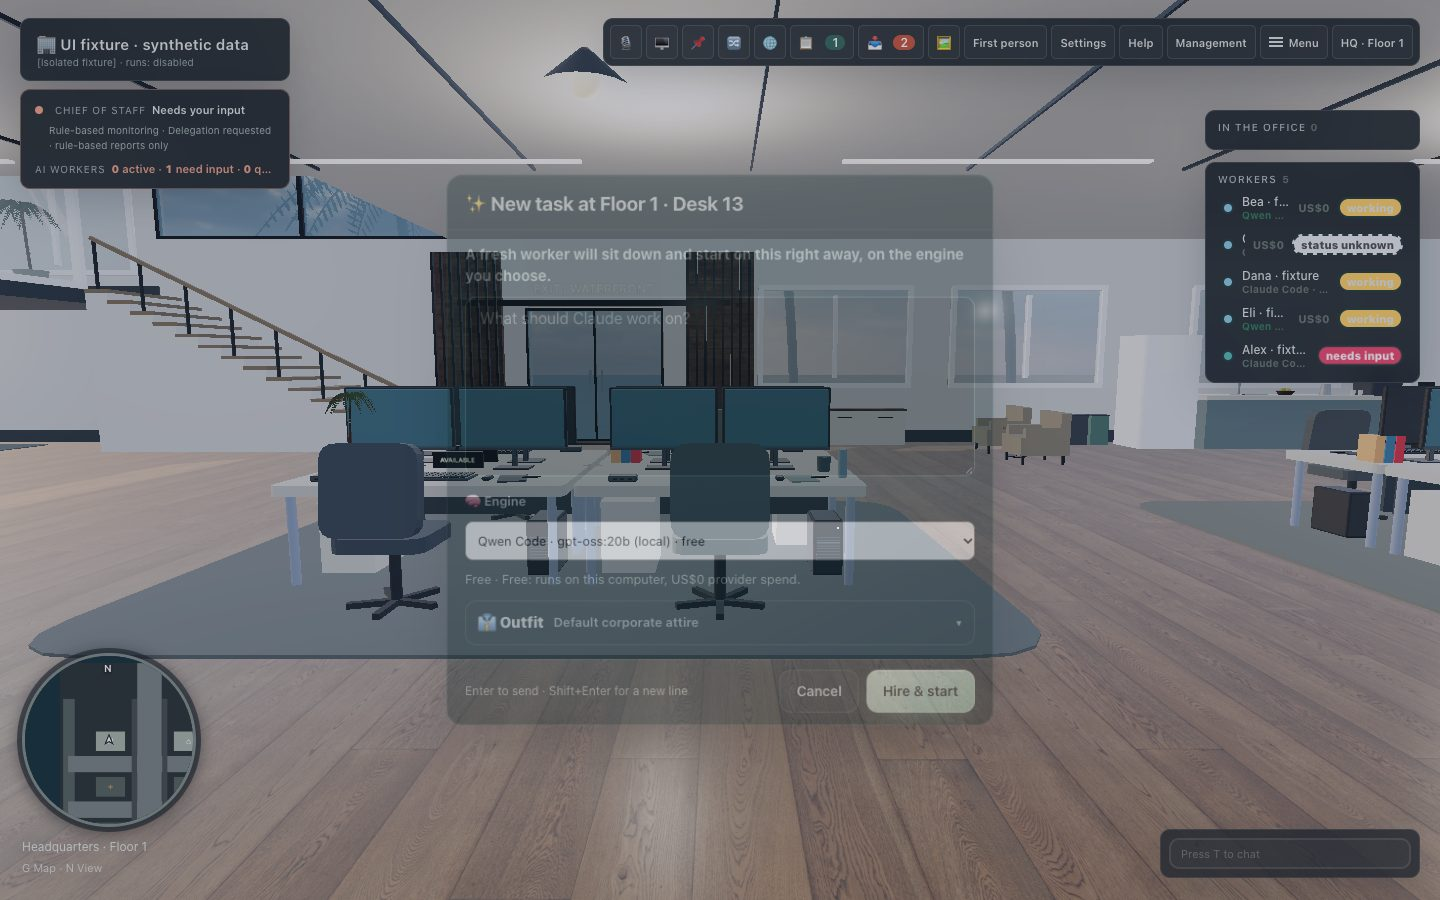
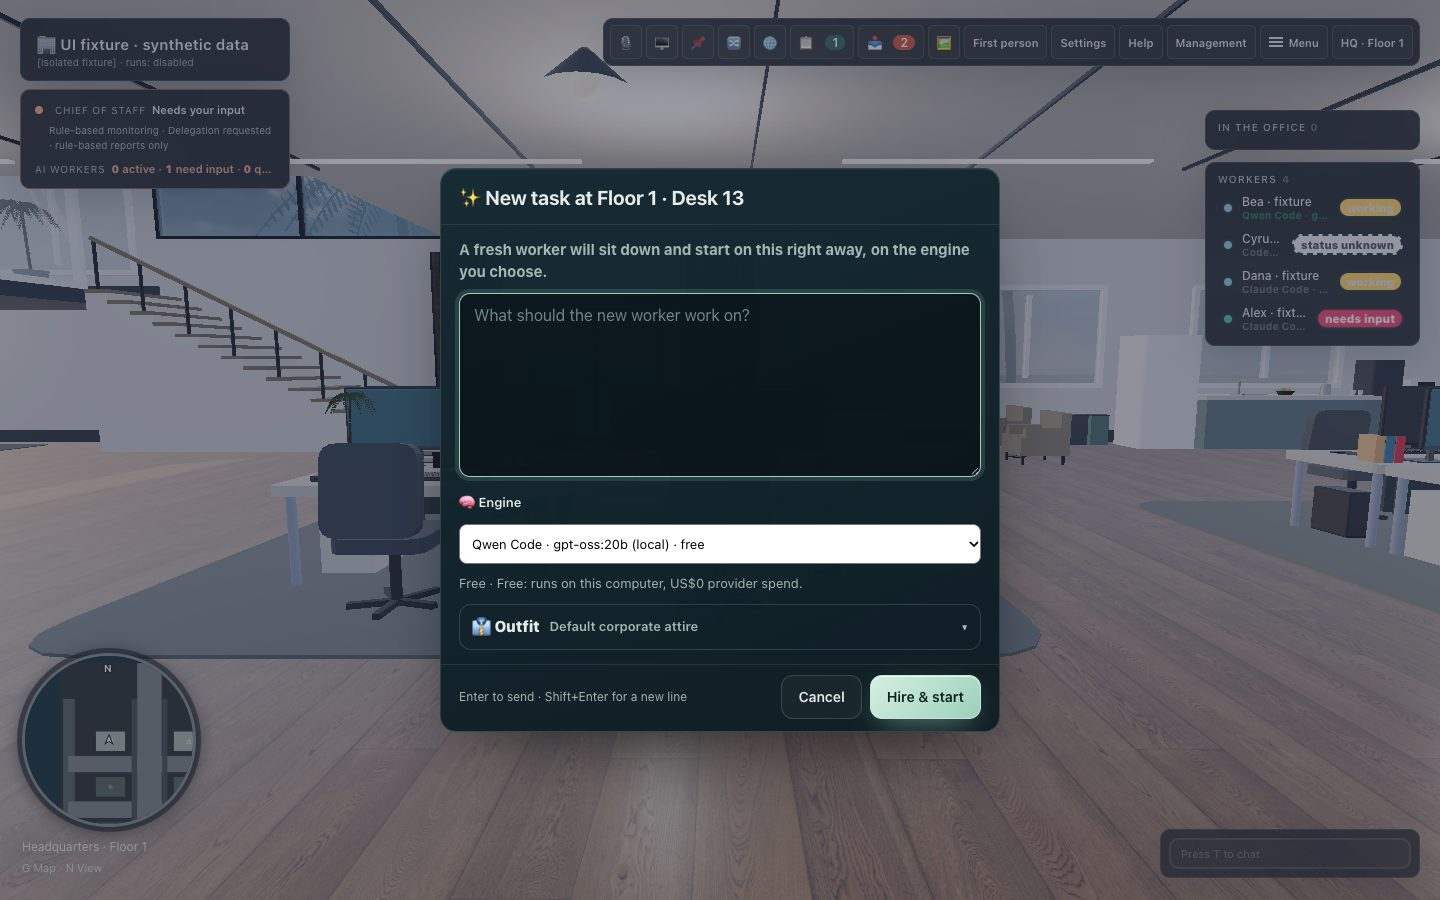
FREE-01: tidy HUD engine line (spend inline), hire placeholder, UI check screenshots

diff --git a/tools/engines-ui-check.ts b/tools/engines-ui-check.ts
@@ -43,7 +43,7 @@ async function open(browser: Browser, o: { width: number; height: number; touch:
 async function openSettings(page: Page) {
   await page.evaluate(() => (document.getElementById('btn-settings') as HTMLButtonElement | null)?.click());
   await page.waitForSelector('.linked-accounts .engine-card', { timeout: 15_000 });
-  await page.locator('.linked-accounts').scrollIntoViewIfNeeded();
+  await page.evaluate(() => document.querySelector('.linked-accounts')?.scrollIntoView({ block: 'start' }));
   await page.waitForTimeout(400);
 }
 
@@ -76,15 +76,18 @@ async function main() {
       const chosen = await p.evaluate(() => { const s = document.querySelector('#engine-choice') as HTMLSelectElement; return { text: s.selectedOptions[0]?.textContent ?? '', note: document.querySelector('.engine-note')?.textContent ?? '', disabled: [...s.options].filter((o) => o.disabled).map((o) => o.textContent) }; });
       check('no healthy premium: the free engine is offered with its label', /^Qwen Code · gpt-oss:20b \(local\) · free$/.test(chosen.text) && /Free · /.test(chosen.note), JSON.stringify(chosen));
       check('unready premium engines are listed but not selectable, with reasons', chosen.disabled.some((t) => /Claude Code · your Claude account — not ready/.test(t ?? '')));
+      await p.waitForTimeout(900); // the dialog's fade-in
       await p.screenshot({ path: resolve(out, '06-hire-dialog-engine-choice-1440x900.jpg'), quality: 82 });
       const before = await p.locator('#workers li[data-worker]').count();
       await p.fill('#modal-root textarea', 'Fixture hire on the free engine');
       await p.locator('#modal-root button[type=submit]').click();
       await p.waitForFunction((n) => document.querySelectorAll('#workers li[data-worker]').length > n, before, { timeout: 10_000 }).catch(() => {});
       const hired = await p.evaluate(() => [...document.querySelectorAll('#workers li[data-worker] .engine')].map((e) => e.textContent));
-      check('the hire carries the chosen engine to the worker card', hired.filter((t) => t === 'Qwen Code · gpt-oss:20b (local)').length >= 2, hired.join(' | '));
+      check('the hire carries the chosen engine to the worker card', hired.filter((t) => t?.startsWith('Qwen Code · gpt-oss:20b (local)')).length >= 2, hired.join(' | '));
     }
     await openSettings(p);
+    await p.waitForTimeout(3500); // let the hire toast clear
+    await p.screenshot({ path: resolve(out, '01-settings-linked-accounts-1440x900.jpg'), quality: 82 });
     const panel = (await p.locator('.linked-accounts').textContent()) ?? '';
     check('panel shows Claude Code login state from CLI output', /Claude Code · premium/.test(panel) && /Not signed in/.test(panel), '');
     check('panel offers "Sign in to Claude" and says the Empire never sees credentials', /Sign in to Claude/.test(panel) && /never signs you in or sees your Claude credentials/.test(panel));
@@ -94,7 +97,7 @@ async function main() {
     await p.locator('.hosted-free summary').click();
     const terms = (await p.locator('.hosted-free').textContent()) ?? '';
     check('free hosted keys are opt-in with data-use terms shown', /opt-in/.test(terms) && /human reviewers may read them/.test(terms) && /has not verified them/.test(terms));
-    await p.screenshot({ path: resolve(out, '01-settings-linked-accounts-1440x900.jpg'), quality: 82 });
+    await p.screenshot({ path: resolve(out, '01b-settings-free-hosted-terms-1440x900.jpg'), quality: 82 });
 
     // Explicit, confirmed download (synthetic progress), then cancel.
     await p.locator('.model-recs button:has-text("Download (19 GB)")').click();
@@ -120,9 +123,9 @@ async function main() {
 
     // Engine labels and status unknown on the worker card (HUD list), name plate and terminal header.
     const rows = await p.evaluate(() => [...document.querySelectorAll('#workers li[data-worker]')].map((li) => ({ id: (li as HTMLElement).dataset.worker, engine: li.querySelector('.engine')?.textContent ?? '', pill: li.querySelector('.pill')?.textContent ?? '', cost: li.querySelector('.cost')?.textContent ?? '' })));
-    const qwen = rows.find((r) => r.engine === 'Qwen Code · gpt-oss:20b (local)');
-    const codex = rows.find((r) => r.engine === 'Codex · gpt-oss:20b (local)');
-    check('worker card shows "Qwen Code · gpt-oss:20b (local)" with US$0 spend', !!qwen && qwen.cost === 'US$0', JSON.stringify(qwen));
+    const qwen = rows.find((r) => r.engine.startsWith('Qwen Code · gpt-oss:20b (local)'));
+    const codex = rows.find((r) => r.engine.startsWith('Codex · gpt-oss:20b (local)'));
+    check('worker card shows "Qwen Code · gpt-oss:20b (local)" with US$0 spend', !!qwen && qwen.engine.endsWith('· US$0'), JSON.stringify(qwen));
     check('an engine that cannot report shows "status unknown"', !!codex && /status unknown/.test(codex.pill), JSON.stringify(codex));
     check('Claude worker card says "your Claude account"', rows.some((r) => r.engine === 'Claude Code · your Claude account'));
     const plates = await p.evaluate(() => [...(window as unknown as { __office: { workerViews: Map<string, { plate: string }> } }).__office.workerViews.values()].map((v) => v.plate));

diff --git a/src/client/ui/hud.ts b/src/client/ui/hud.ts
@@ -97,8 +97,8 @@ function workerRows(onOpen: (id: string) => void): HTMLElement[] {
         'aria-label': `${w.name}, ${w.kind === 'shell' ? 'shell' : engine}, ${pill.spoken}. Open terminal.`,
       },
       h('span.dot', { style: `background:${w.color}` }),
-      h('span.name', {}, w.name, engine ? h('span.engine', { 'data-engine': w.engine?.id ?? 'claude-code' }, engine) : null, sub ? h('span.sub', {}, sub) : null),
-      spend ? h('span.cost', { title: 'Provider spend for a local model is zero. City credits are separate.' }, 'US$0') : w.usage?.calls ? h('span.cost', { title: usageTitle(w.usage) }, fmtCost(w.usage.cost)) : null,
+      h('span.name', {}, w.name, engine ? h('span.engine', { 'data-engine': w.engine?.id ?? 'claude-code', title: spend ? `${engine} · ${spend}. City credits are separate.` : engine }, engine, spend ? ' · US$0' : '') : null, sub ? h('span.sub', {}, sub) : null),
+      !spend && w.usage?.calls ? h('span.cost', { title: usageTitle(w.usage) }, fmtCost(w.usage.cost)) : null,
       h('span.pill', { class: pill.tone, title: fresh ? undefined : 'No fresh update from the server; this is the last reported status.' }, pill.text),
     );
   });

diff --git a/src/client/ui/prompt.ts b/src/client/ui/prompt.ts
@@ -31,7 +31,7 @@ function worktreePref(): boolean {
 }
 
 export function openPrompt(opts: PromptOptions) {
-  const ta = h('textarea', { rows: 7, placeholder: opts.placeholder ?? 'What should Claude work on?', 'aria-label': 'Prompt' }) as HTMLTextAreaElement;
+  const ta = h('textarea', { rows: 7, placeholder: opts.placeholder ?? (opts.engineOption ? 'What should the new worker work on?' : 'What should Claude work on?'), 'aria-label': 'Prompt' }) as HTMLTextAreaElement;
   ta.value = opts.initial ?? '';
   const wtBox = h('input', { type: 'checkbox', id: 'wt-toggle' }) as HTMLInputElement;
   wtBox.checked = worktreePref();
